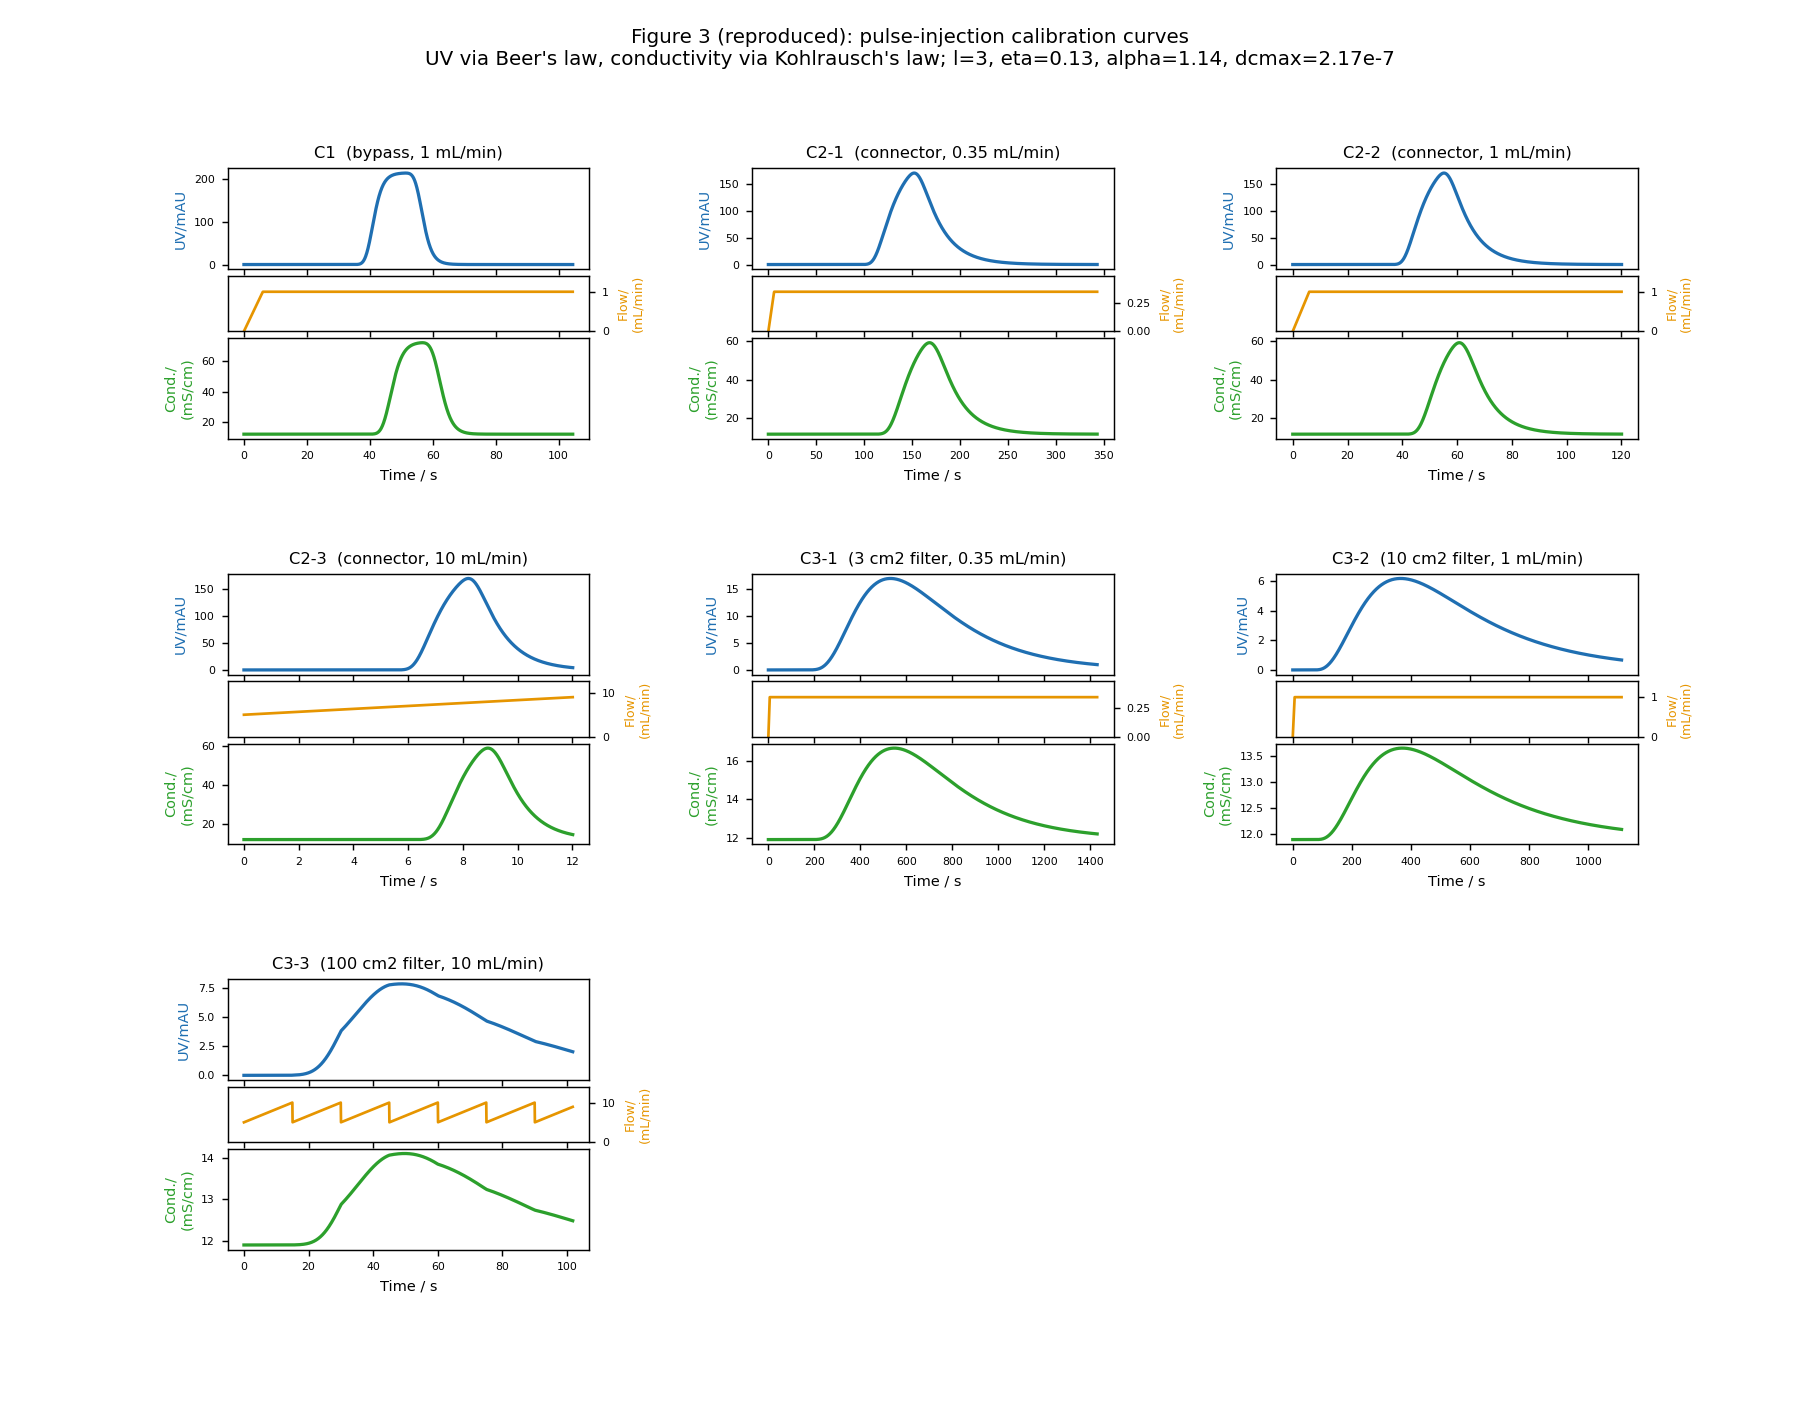
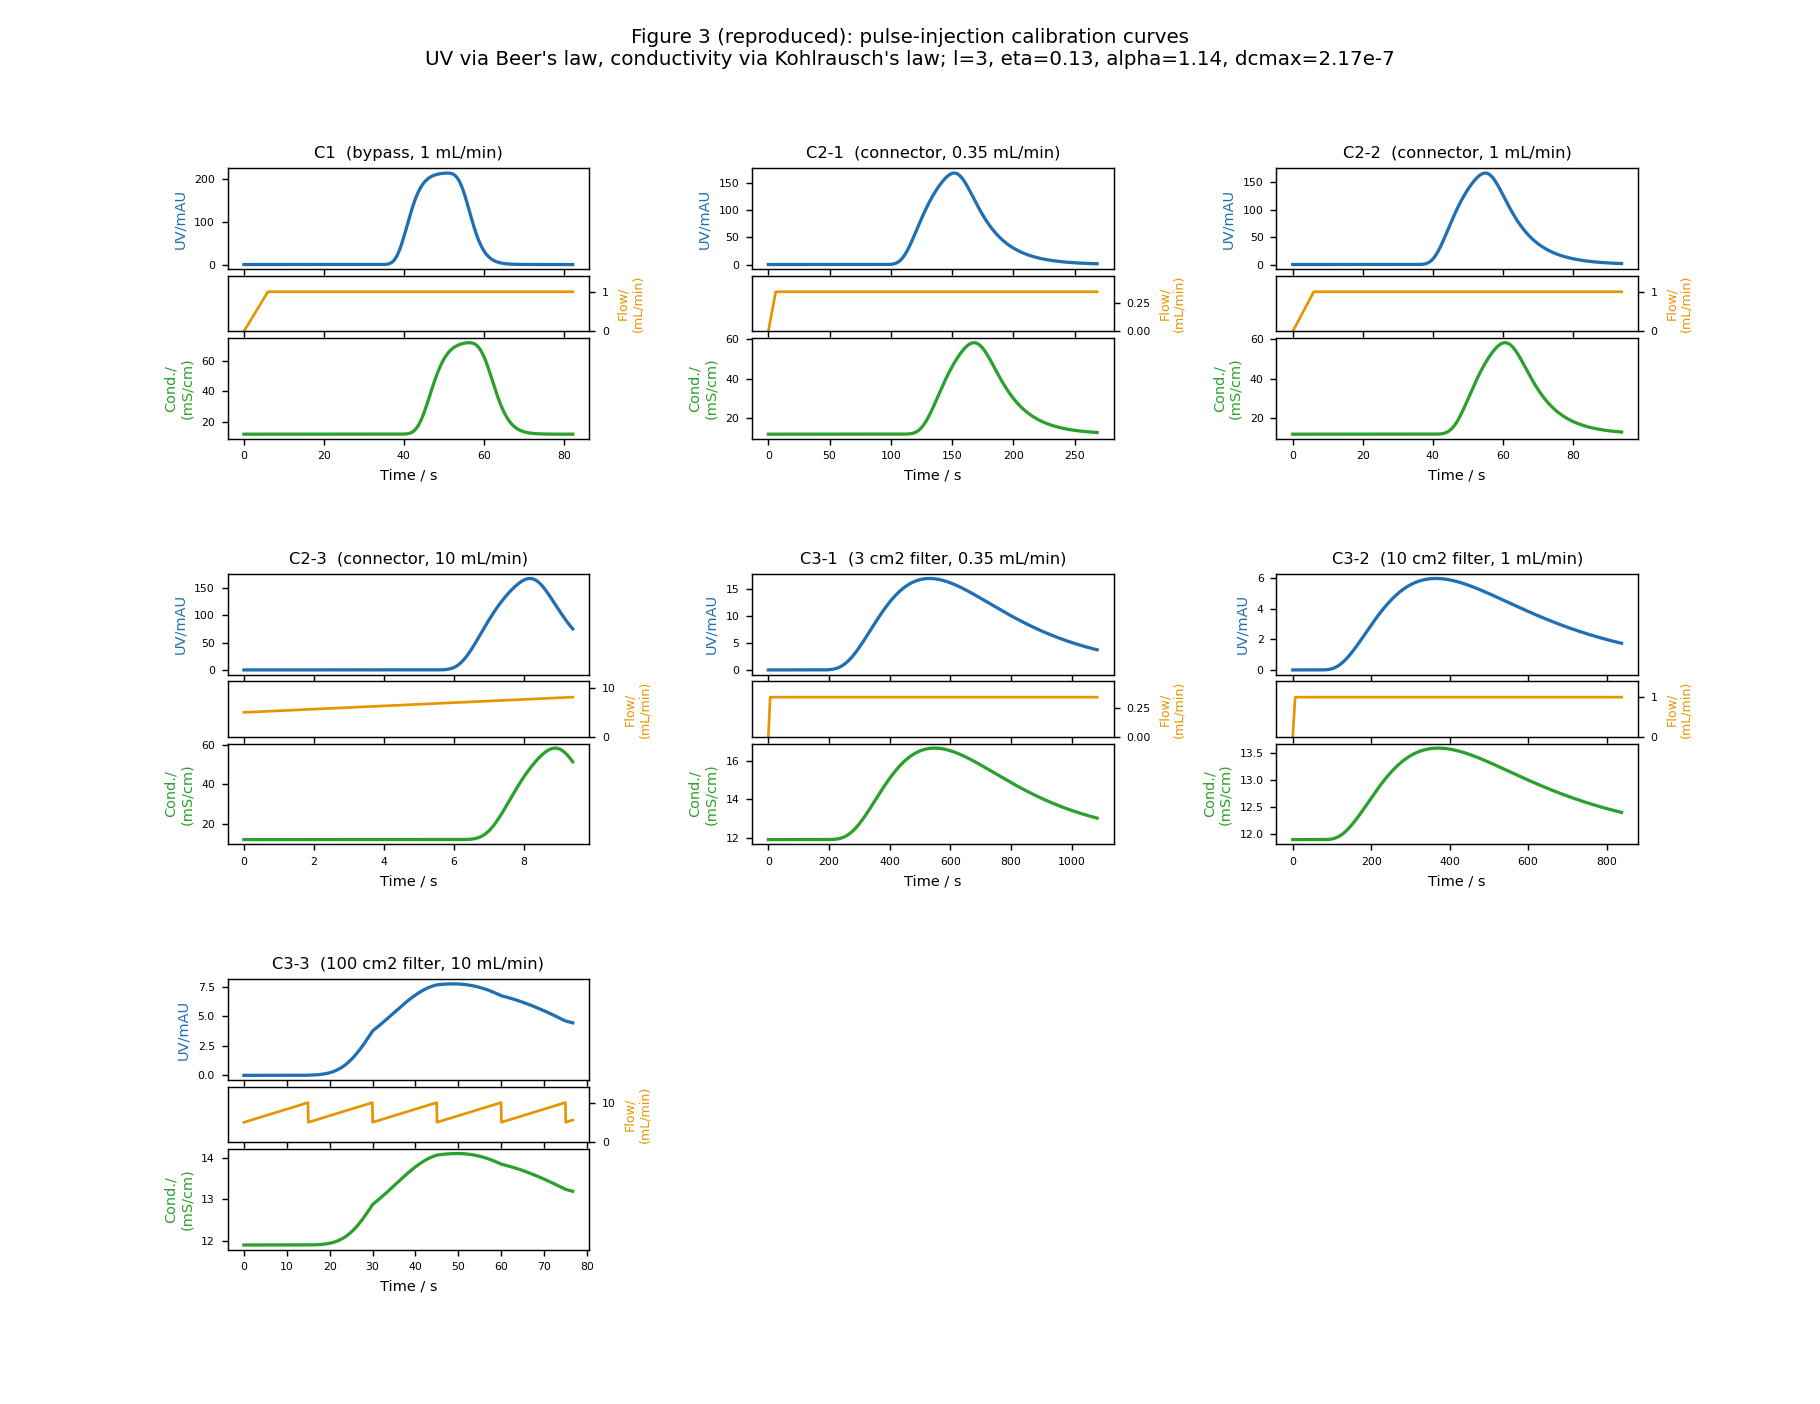
Configure all 21 Table-2 experiments; full Figure 3/4 panels
Add the remaining V-series to experiments.yaml so Figure 3 has all 7 C
experiments and Figure 4 all 14 V experiments (paper order): V5 and V6-1/2/3
combined 0.05 M step + 0.5 M pulse (with equilibration buffer -> U-shaped
conductivity + pulse spike), V7 antibody, V8 continuous (approximated as a
single 100 cm2 cycle; twin-filter switching not modelled). CLI `list` shows a
derived kind (step/pulse/combo).

Add rtd.units.DPF_N_CELLS knob so the 14-panel grid renders with a coarser mesh
for speed (per-experiment plot/csv keep full resolution). Docs updated
(README, MULTICOMPONENT.md). Tests + verify pass.
Clean up experiments.yaml: block style + per-experiment comments

Rewrite experiments.yaml in expanded block style (no inline {} maps; one field
per line, species as block mappings), add a descriptive comment before every
experiment and section banners for Figure 3 / Figure 4 / demos, and document
all fields in the header. No behaviour change; loader/tests unaffected.

diff --git a/run_figures.py b/run_figures.py
@@ -34,7 +34,17 @@ def _make_figure(figure_no, suptitle, outfile, style=None, focus=None):
     focus = FOCUS_ENABLED if focus is None else focus
     experiments, _defaults = load_config()
     exps = [e for e in experiments if e.figure == figure_no]
-    pairs = [(e, simulate(e)) for e in exps]
+    # Grid panels are small, so a lighter simulation (coarser DPF mesh, shorter
+    # wash-out window, fewer samples) keeps whole-figure generation fast without
+    # visible loss.  (Per-experiment `rtd_cli.py plot/csv` use full resolution.)
+    import rtd.units as _U
+    old_cells = _U.DPF_N_CELLS
+    _U.DPF_N_CELLS = 20
+    try:
+        pairs = [(e, simulate(e, n_time=900, pulse_span=1.5, step_span=1.8))
+                 for e in exps]
+    finally:
+        _U.DPF_N_CELLS = old_cells
     out = os.path.join(HERE, outfile)
     plot_grid(pairs, suptitle, out, style=style, focus=focus)
     print("wrote", out)

diff --git a/rtd/experiments.py b/rtd/experiments.py
@@ -110,6 +110,16 @@ class Experiment:
         return any(s.step for s in self.species_list())
 
     @property
+    def display_kind(self) -> str:
+        """Human-readable kind derived from the species (step/pulse/combo)."""
+        sl = self.species_list()
+        has_s = any(s.step for s in sl)
+        has_p = any(s.pulse for s in sl)
+        if has_s and has_p:
+            return "combo"
+        return "step" if has_s else "pulse"
+
+    @property
     def injection_node(self) -> str:
         if self.inject_at:
             return self.inject_at

diff --git a/rtd/units.py b/rtd/units.py
@@ -73,6 +73,12 @@ USE_NUMBA = HAVE_NUMBA
 # See docs/DISCRETIZATION.md.
 DPF_SCHEME = "vanleer"
 
+# Default number of DPF finite-volume cells.  40 is grid-converged enough for
+# van Leer on the peripheral conduits; multi-panel grid figures may lower this
+# module-wide (e.g. 24) for speed without visible change.  ``dpf_outlet`` uses
+# this when called with ``n_cells=None``.
+DPF_N_CELLS = 40
+
 
 @_njit(cache=True)
 def _dpf_rates_core(c, cf, u, Dax, inv_dz, inv_dz2):
@@ -254,7 +260,7 @@ def _vanleer_rates_np(c, cf, u, Dax, inv_dz, inv_dz2):
 
 
 def dpf_outlet(t_grid, c_in, volume_uL, length_mm, diameter_mm, flow_mL_min,
-               n_cells=40, Pe=0.5, c0=0.0, max_step=None, scheme=None):
+               n_cells=None, Pe=0.5, c0=0.0, max_step=None, scheme=None):
     """
     Dispersed plug flow through a straight conduit, solved by a finite-volume
     method of lines with Danckwerts boundary conditions.
@@ -270,6 +276,8 @@ def dpf_outlet(t_grid, c_in, volume_uL, length_mm, diameter_mm, flow_mL_min,
     exactly V/Vdot while the diameter still sets the dispersion length scale.
     """
     scheme = (scheme or DPF_SCHEME).lower()
+    if n_cells is None:
+        n_cells = DPF_N_CELLS
     vdot = _vdot_fn(flow_mL_min)                           # callable t -> uL/s
     L = length_mm                                          # mm
 

diff --git a/rtd_cli.py b/rtd_cli.py
@@ -66,7 +66,7 @@ def cmd_list(args, experiments, defaults):
     for e in rows:
         surf = "-" if e.surface is None else str(e.surface)
         fig = "-" if e.figure is None else str(e.figure)
-        print(f"{e.name.ljust(w)}  {fig:>3}  {e.kind:<5}  {e.connection:<10}  "
+        print(f"{e.name.ljust(w)}  {fig:>3}  {e.display_kind:<5}  {e.connection:<10}  "
               f"{e.flow:>11}  {surf:>8}  {e.description}")
     print(f"\n{len(rows)} experiment(s). Config: {args.config or 'experiments.yaml'}")
 

diff --git a/docs/MULTICOMPONENT.md b/docs/MULTICOMPONENT.md
@@ -113,6 +113,20 @@ only a small change rather than a deep U. Real molar conductivity falls with
 concentration, so 0.1 M would sit a little below the buffer; capturing that
 needs a concentration-dependent conductivity (not currently modelled).
 
+## Full experiment set (Table 2)
+
+All 21 paper experiments are configured: the **7 C-series** (Figure 3, pulse
+calibration) and the **14 V-series** (Figure 4) — V1–V4 (stepwise), V5/V6
+(combined 0.05 M step + 0.5 M pulse), V7 (antibody), V8 (continuous). Run
+`python3 rtd_cli.py list` to see them; `figure --which 3|4|both` builds the
+grids.
+
+**V8 caveat.** V8 is the *continuous* mode — twin 100 cm² filters with valve
+switching between cycles. That two-filter switching is **not** modelled; V8 is
+approximated as a single 100 cm² step cycle at 10 mL/min (its title says
+"approx."). A faithful V8 would need a new "continuous" connection with two
+filter instances and a switch schedule (a candidate backlog item).
+
 ## Caveats
 
 - **Superposition validity.** Independent per-species propagation is exact only